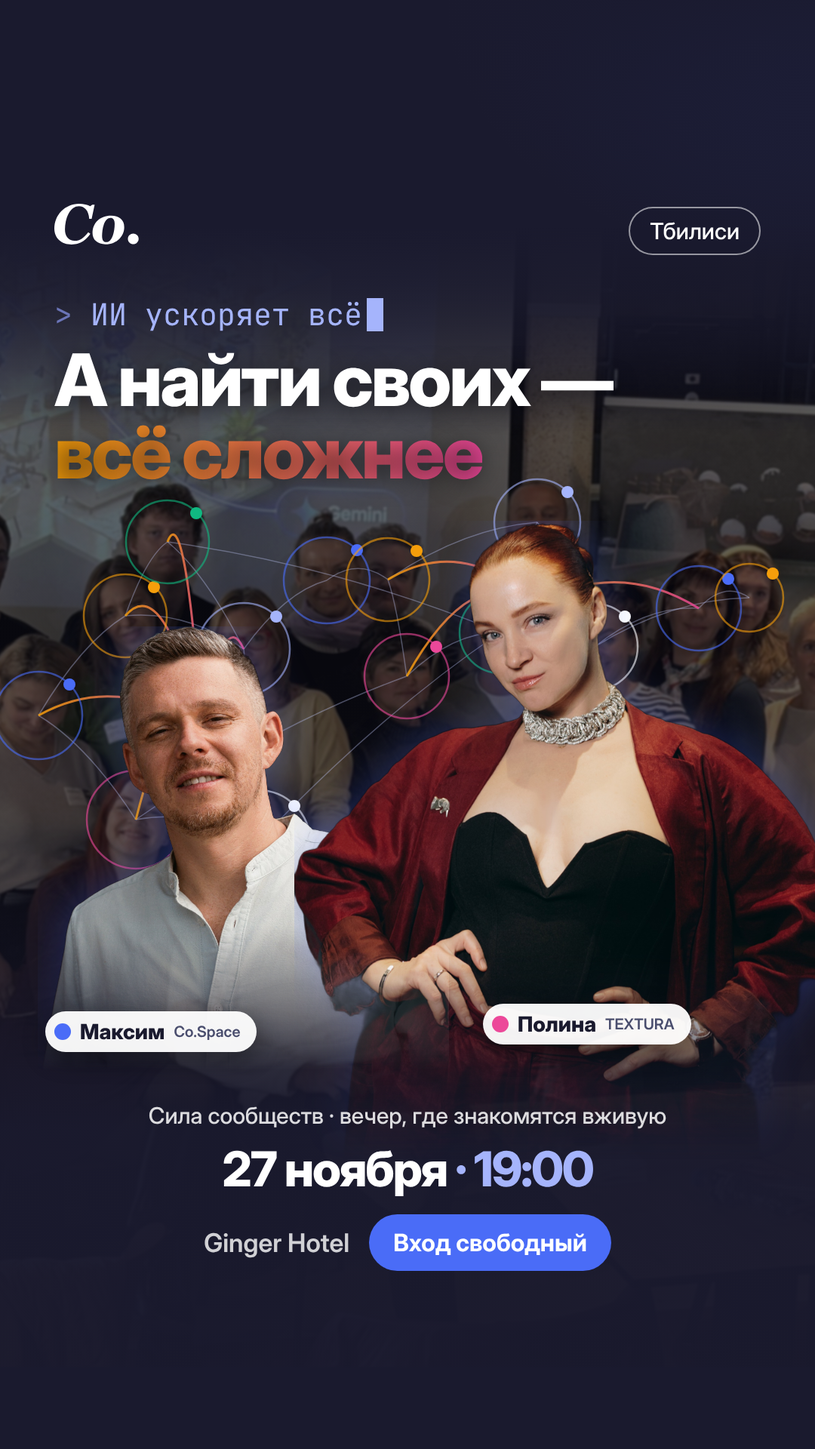
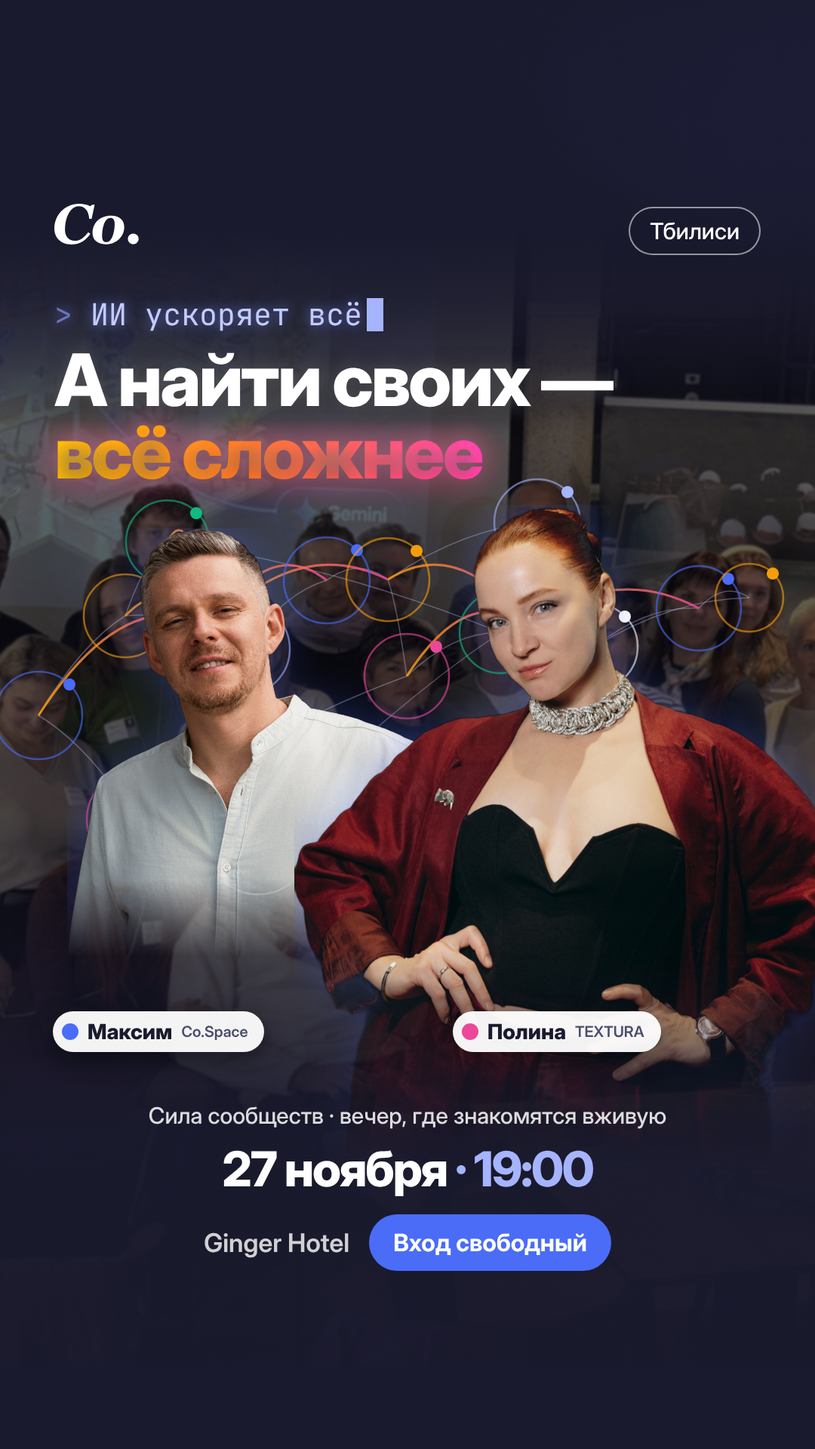
Афиша v3: одинаковый размер голов, яркий заголовок
Claude-Session: https://claude.ai/code/session_01EUhV7vaX3V2s8FuVCAhgM5

diff --git a/creatives/src/poster/poster3-9x16.html b/creatives/src/poster/poster3-9x16.html
@@ -12,11 +12,11 @@ svg.net{position:absolute;left:0;top:0}
 .person img{height:100%;display:block;filter:drop-shadow(0 0 30px rgba(74,108,247,.35))}
 .logo{position:absolute;left:72px;top:270px}.logo svg{width:112px;height:auto;display:block}
 .pill{position:absolute;right:72px;top:274px;border:2px solid rgba(255,255,255,.55);border-radius:40px;padding:12px 26px;font-size:30px;font-weight:500;background:rgba(26,26,46,.4)}
-.mono{position:absolute;left:72px;top:390px;font-family:'JetBrains Mono',monospace;font-size:40px;color:#A5B4FC}
+.mono{position:absolute;left:72px;top:390px;font-family:'JetBrains Mono',monospace;font-size:40px;color:#C3CCFF;text-shadow:0 0 16px rgba(120,140,255,.7)}
 .mono s{text-decoration:none;color:#6B75B8}
 .mono b{display:inline-block;width:22px;height:44px;background:#A5B4FC;vertical-align:-8px;margin-left:6px}
-h1{position:absolute;left:72px;right:60px;top:455px;font-size:96px;line-height:1;font-weight:800;letter-spacing:-3px;text-shadow:0 4px 30px rgba(0,0,0,.5)}
-h1 em{font-style:normal;background:linear-gradient(90deg,#F59E0B,#EC4899);-webkit-background-clip:text;color:transparent}
+h1{position:absolute;left:72px;right:60px;top:455px;font-size:96px;line-height:1;font-weight:800;letter-spacing:-3px;color:#fff;text-shadow:0 0 24px rgba(255,255,255,.25),0 4px 30px rgba(0,0,0,.7)}
+h1 em{font-style:normal;background:linear-gradient(90deg,#FFC21A 0%,#FF7A2F 45%,#FF3EA5 100%);-webkit-background-clip:text;color:transparent;filter:drop-shadow(0 0 18px rgba(255,90,140,.55)) brightness(1.15) saturate(1.3)}
 .name{position:absolute;display:flex;align-items:center;gap:12px;background:rgba(255,255,255,.95);color:#1A1A2E;border-radius:40px;
  padding:10px 22px 10px 12px;font-size:28px;font-weight:800;box-shadow:0 10px 30px rgba(0,0,0,.4)}
 .name i{width:22px;height:22px;border-radius:50%;display:block}
@@ -29,10 +29,10 @@ h1 em{font-style:normal;background:linear-gradient(90deg,#F59E0B,#EC4899);-webki
 .place{font-size:34px;color:rgba(255,255,255,.8);font-weight:600}
 .cta{background:#4A6CF7;border-radius:44px;padding:18px 32px;font-size:32px;font-weight:700}
 </style></head><body><img class="bg" src="group.src.jpg"><div class="shade"></div>
-<svg class="net" width="1080" height="1920" viewBox="0 0 1080 1920"><defs><linearGradient id="gl" x1="0" x2="1"><stop offset="0" stop-color="#F59E0B"/><stop offset="1" stop-color="#EC4899"/></linearGradient></defs><path d="M222,718 Q272,759 323,860" stroke="#C7CEFF" stroke-width="1.5" fill="none" opacity=".35"/><path d="M323,860 Q378,784 433,769" stroke="#C7CEFF" stroke-width="1.5" fill="none" opacity=".35"/><path d="M926,806 Q960,769 993,792" stroke="#C7CEFF" stroke-width="1.5" fill="none" opacity=".35"/><path d="M51,948 Q116,987 180,1086" stroke="#C7CEFF" stroke-width="1.5" fill="none" opacity=".35"/><path d="M539,896 Q601,837 663,838" stroke="#C7CEFF" stroke-width="1.5" fill="none" opacity=".35"/><path d="M663,838 Q726,818 788,857" stroke="#C7CEFF" stroke-width="1.5" fill="none" opacity=".35"/><path d="M180,1086 Q261,1071 342,1116" stroke="#C7CEFF" stroke-width="1.5" fill="none" opacity=".35"/><path d="M166,816 Q194,737 222,718" stroke="#C7CEFF" stroke-width="1.5" fill="none" opacity=".35"/><path d="M180,1086 Q360,961 539,896" stroke="#C7CEFF" stroke-width="1.5" fill="none" opacity=".35"/><path d="M514,768 Q613,700 712,692" stroke="#C7CEFF" stroke-width="1.5" fill="none" opacity=".35"/><path d="M323,860 Q332,958 342,1116" stroke="#C7CEFF" stroke-width="1.5" fill="none" opacity=".35"/><path d="M222,718 Q442,748 663,838" stroke="#C7CEFF" stroke-width="1.5" fill="none" opacity=".35"/><path d="M342,1116 Q502,947 663,838" stroke="#C7CEFF" stroke-width="1.5" fill="none" opacity=".35"/><path d="M51,948 Q108,852 166,816" stroke="#C7CEFF" stroke-width="1.5" fill="none" opacity=".35"/><path d="M663,838 Q688,735 712,692" stroke="#C7CEFF" stroke-width="1.5" fill="none" opacity=".35"/><path d="M712,692 Q750,744 788,857" stroke="#C7CEFF" stroke-width="1.5" fill="none" opacity=".35"/><path d="M788,857 Q890,794 993,792" stroke="#C7CEFF" stroke-width="1.5" fill="none" opacity=".35"/><path d="M433,769 Q474,738 514,768" stroke="#C7CEFF" stroke-width="1.5" fill="none" opacity=".35"/><path d="M166,816 Q244,808 323,860" stroke="#C7CEFF" stroke-width="1.5" fill="none" opacity=".35"/><path d="M788,857 Q857,802 926,806" stroke="#C7CEFF" stroke-width="1.5" fill="none" opacity=".35"/><path d="M514,768 Q526,802 539,896" stroke="#C7CEFF" stroke-width="1.5" fill="none" opacity=".35"/><path d="M712,800 Q688,740 663,838" stroke="url(#gl)" stroke-width="3" fill="none" opacity=".85"/><path d="M712,800 Q750,740 788,857" stroke="url(#gl)" stroke-width="3" fill="none" opacity=".85"/><path d="M712,800 Q712,632 712,692" stroke="url(#gl)" stroke-width="3" fill="none" opacity=".85"/><path d="M712,800 Q626,740 539,896" stroke="url(#gl)" stroke-width="3" fill="none" opacity=".85"/><path d="M712,800 Q613,708 514,768" stroke="url(#gl)" stroke-width="3" fill="none" opacity=".85"/><path d="M712,800 Q819,740 926,806" stroke="url(#gl)" stroke-width="3" fill="none" opacity=".85"/><path d="M268,971 Q296,800 323,860" stroke="url(#gl)" stroke-width="3" fill="none" opacity=".85"/><path d="M268,971 Q224,911 180,1086" stroke="url(#gl)" stroke-width="3" fill="none" opacity=".85"/><path d="M268,971 Q305,911 342,1116" stroke="url(#gl)" stroke-width="3" fill="none" opacity=".85"/><path d="M268,971 Q217,756 166,816" stroke="url(#gl)" stroke-width="3" fill="none" opacity=".85"/><path d="M268,971 Q160,888 51,948" stroke="url(#gl)" stroke-width="3" fill="none" opacity=".85"/><path d="M268,971 Q245,658 222,718" stroke="url(#gl)" stroke-width="3" fill="none" opacity=".85"/><circle cx="51" cy="948" r="58" fill="none" stroke="#4A6CF7" stroke-width="2.5" opacity=".6"/><circle cx="92" cy="907" r="8" fill="#4A6CF7"/><circle cx="166" cy="816" r="55" fill="none" stroke="#F59E0B" stroke-width="2.5" opacity=".6"/><circle cx="204" cy="778" r="8" fill="#F59E0B"/><circle cx="180" cy="1086" r="65" fill="none" stroke="#EC4899" stroke-width="2.5" opacity=".6"/><circle cx="226" cy="1040" r="8" fill="#EC4899"/><circle cx="222" cy="718" r="55" fill="none" stroke="#10B981" stroke-width="2.5" opacity=".6"/><circle cx="260" cy="680" r="8" fill="#10B981"/><circle cx="323" cy="860" r="61" fill="none" stroke="#A5B4FC" stroke-width="2.5" opacity=".6"/><circle cx="366" cy="817" r="8" fill="#A5B4FC"/><circle cx="342" cy="1116" r="69" fill="none" stroke="#FFFFFF" stroke-width="2.5" opacity=".6"/><circle cx="390" cy="1068" r="8" fill="#FFFFFF"/><circle cx="433" cy="769" r="57" fill="none" stroke="#4A6CF7" stroke-width="2.5" opacity=".6"/><circle cx="473" cy="729" r="8" fill="#4A6CF7"/><circle cx="514" cy="768" r="55" fill="none" stroke="#F59E0B" stroke-width="2.5" opacity=".6"/><circle cx="552" cy="730" r="8" fill="#F59E0B"/><circle cx="539" cy="896" r="56" fill="none" stroke="#EC4899" stroke-width="2.5" opacity=".6"/><circle cx="578" cy="857" r="8" fill="#EC4899"/><circle cx="663" cy="838" r="54" fill="none" stroke="#10B981" stroke-width="2.5" opacity=".6"/><circle cx="701" cy="800" r="8" fill="#10B981"/><circle cx="712" cy="692" r="57" fill="none" stroke="#A5B4FC" stroke-width="2.5" opacity=".6"/><circle cx="752" cy="652" r="8" fill="#A5B4FC"/><circle cx="788" cy="857" r="57" fill="none" stroke="#FFFFFF" stroke-width="2.5" opacity=".6"/><circle cx="828" cy="817" r="8" fill="#FFFFFF"/><circle cx="926" cy="806" r="56" fill="none" stroke="#4A6CF7" stroke-width="2.5" opacity=".6"/><circle cx="965" cy="767" r="8" fill="#4A6CF7"/><circle cx="993" cy="792" r="45" fill="none" stroke="#F59E0B" stroke-width="2.5" opacity=".6"/><circle cx="1024" cy="760" r="8" fill="#F59E0B"/></svg>
-<div class="person" style="left:50px;top:830px;height:640px"><img src="max_cut.png"></div><div class="person" style="left:390px;top:690px;height:920px"><img src="polina_cut.png"></div>
-<div class="name" style="left:640px;top:1330px"><i style="background:#EC4899"></i>Полина <small>TEXTURA</small></div>
-<div class="name" style="left:60px;top:1340px"><i style="background:#4A6CF7"></i>Максим <small>Co.Space</small></div>
+<svg class="net" width="1080" height="1920" viewBox="0 0 1080 1920"><defs><linearGradient id="gl" x1="0" x2="1"><stop offset="0" stop-color="#F59E0B"/><stop offset="1" stop-color="#EC4899"/></linearGradient></defs><path d="M222,718 Q272,759 323,860" stroke="#C7CEFF" stroke-width="1.5" fill="none" opacity=".35"/><path d="M323,860 Q378,784 433,769" stroke="#C7CEFF" stroke-width="1.5" fill="none" opacity=".35"/><path d="M926,806 Q960,769 993,792" stroke="#C7CEFF" stroke-width="1.5" fill="none" opacity=".35"/><path d="M51,948 Q116,987 180,1086" stroke="#C7CEFF" stroke-width="1.5" fill="none" opacity=".35"/><path d="M539,896 Q601,837 663,838" stroke="#C7CEFF" stroke-width="1.5" fill="none" opacity=".35"/><path d="M663,838 Q726,818 788,857" stroke="#C7CEFF" stroke-width="1.5" fill="none" opacity=".35"/><path d="M180,1086 Q261,1071 342,1116" stroke="#C7CEFF" stroke-width="1.5" fill="none" opacity=".35"/><path d="M166,816 Q194,737 222,718" stroke="#C7CEFF" stroke-width="1.5" fill="none" opacity=".35"/><path d="M180,1086 Q360,961 539,896" stroke="#C7CEFF" stroke-width="1.5" fill="none" opacity=".35"/><path d="M514,768 Q613,700 712,692" stroke="#C7CEFF" stroke-width="1.5" fill="none" opacity=".35"/><path d="M323,860 Q332,958 342,1116" stroke="#C7CEFF" stroke-width="1.5" fill="none" opacity=".35"/><path d="M222,718 Q442,748 663,838" stroke="#C7CEFF" stroke-width="1.5" fill="none" opacity=".35"/><path d="M342,1116 Q502,947 663,838" stroke="#C7CEFF" stroke-width="1.5" fill="none" opacity=".35"/><path d="M51,948 Q108,852 166,816" stroke="#C7CEFF" stroke-width="1.5" fill="none" opacity=".35"/><path d="M663,838 Q688,735 712,692" stroke="#C7CEFF" stroke-width="1.5" fill="none" opacity=".35"/><path d="M712,692 Q750,744 788,857" stroke="#C7CEFF" stroke-width="1.5" fill="none" opacity=".35"/><path d="M788,857 Q890,794 993,792" stroke="#C7CEFF" stroke-width="1.5" fill="none" opacity=".35"/><path d="M433,769 Q474,738 514,768" stroke="#C7CEFF" stroke-width="1.5" fill="none" opacity=".35"/><path d="M166,816 Q244,808 323,860" stroke="#C7CEFF" stroke-width="1.5" fill="none" opacity=".35"/><path d="M788,857 Q857,802 926,806" stroke="#C7CEFF" stroke-width="1.5" fill="none" opacity=".35"/><path d="M514,768 Q526,802 539,896" stroke="#C7CEFF" stroke-width="1.5" fill="none" opacity=".35"/><path d="M700,830 Q682,770 663,838" stroke="url(#gl)" stroke-width="3" fill="none" opacity=".85"/><path d="M700,830 Q744,770 788,857" stroke="url(#gl)" stroke-width="3" fill="none" opacity=".85"/><path d="M700,830 Q706,632 712,692" stroke="url(#gl)" stroke-width="3" fill="none" opacity=".85"/><path d="M700,830 Q620,770 539,896" stroke="url(#gl)" stroke-width="3" fill="none" opacity=".85"/><path d="M700,830 Q607,708 514,768" stroke="url(#gl)" stroke-width="3" fill="none" opacity=".85"/><path d="M700,830 Q813,746 926,806" stroke="url(#gl)" stroke-width="3" fill="none" opacity=".85"/><path d="M280,830 Q302,770 323,860" stroke="url(#gl)" stroke-width="3" fill="none" opacity=".85"/><path d="M280,830 Q223,756 166,816" stroke="url(#gl)" stroke-width="3" fill="none" opacity=".85"/><path d="M280,830 Q251,658 222,718" stroke="url(#gl)" stroke-width="3" fill="none" opacity=".85"/><path d="M280,830 Q356,709 433,769" stroke="url(#gl)" stroke-width="3" fill="none" opacity=".85"/><path d="M280,830 Q397,708 514,768" stroke="url(#gl)" stroke-width="3" fill="none" opacity=".85"/><path d="M280,830 Q166,770 51,948" stroke="url(#gl)" stroke-width="3" fill="none" opacity=".85"/><circle cx="51" cy="948" r="58" fill="none" stroke="#4A6CF7" stroke-width="2.5" opacity=".6"/><circle cx="92" cy="907" r="8" fill="#4A6CF7"/><circle cx="166" cy="816" r="55" fill="none" stroke="#F59E0B" stroke-width="2.5" opacity=".6"/><circle cx="204" cy="778" r="8" fill="#F59E0B"/><circle cx="180" cy="1086" r="65" fill="none" stroke="#EC4899" stroke-width="2.5" opacity=".6"/><circle cx="226" cy="1040" r="8" fill="#EC4899"/><circle cx="222" cy="718" r="55" fill="none" stroke="#10B981" stroke-width="2.5" opacity=".6"/><circle cx="260" cy="680" r="8" fill="#10B981"/><circle cx="323" cy="860" r="61" fill="none" stroke="#A5B4FC" stroke-width="2.5" opacity=".6"/><circle cx="366" cy="817" r="8" fill="#A5B4FC"/><circle cx="342" cy="1116" r="69" fill="none" stroke="#FFFFFF" stroke-width="2.5" opacity=".6"/><circle cx="390" cy="1068" r="8" fill="#FFFFFF"/><circle cx="433" cy="769" r="57" fill="none" stroke="#4A6CF7" stroke-width="2.5" opacity=".6"/><circle cx="473" cy="729" r="8" fill="#4A6CF7"/><circle cx="514" cy="768" r="55" fill="none" stroke="#F59E0B" stroke-width="2.5" opacity=".6"/><circle cx="552" cy="730" r="8" fill="#F59E0B"/><circle cx="539" cy="896" r="56" fill="none" stroke="#EC4899" stroke-width="2.5" opacity=".6"/><circle cx="578" cy="857" r="8" fill="#EC4899"/><circle cx="663" cy="838" r="54" fill="none" stroke="#10B981" stroke-width="2.5" opacity=".6"/><circle cx="701" cy="800" r="8" fill="#10B981"/><circle cx="712" cy="692" r="57" fill="none" stroke="#A5B4FC" stroke-width="2.5" opacity=".6"/><circle cx="752" cy="652" r="8" fill="#A5B4FC"/><circle cx="788" cy="857" r="57" fill="none" stroke="#FFFFFF" stroke-width="2.5" opacity=".6"/><circle cx="828" cy="817" r="8" fill="#FFFFFF"/><circle cx="926" cy="806" r="56" fill="none" stroke="#4A6CF7" stroke-width="2.5" opacity=".6"/><circle cx="965" cy="767" r="8" fill="#4A6CF7"/><circle cx="993" cy="792" r="45" fill="none" stroke="#F59E0B" stroke-width="2.5" opacity=".6"/><circle cx="1024" cy="760" r="8" fill="#F59E0B"/></svg>
+<div class="person" style="left:89px;top:700px;height:567px;-webkit-mask-image:linear-gradient(180deg,#000 82%,transparent 100%)"><img src="max_cut.png"></div><div class="person" style="left:390px;top:669px;height:946px;"><img src="polina_cut.png"></div>
+<div class="name" style="left:600px;top:1340px"><i style="background:#EC4899"></i>Полина <small>TEXTURA</small></div>
+<div class="name" style="left:70px;top:1340px"><i style="background:#4A6CF7"></i>Максим <small>Co.Space</small></div>
 <div class="logo"><svg width="77" height="38" viewBox="0 0 77 38" fill="none" xmlns="http://www.w3.org/2000/svg">
 <path d="M15.6912 37.0447C13.4308 37.0447 11.3353 36.7143 9.40484 36.0537C7.47438 35.3761 5.80789 34.4098 4.40543 33.1545C3.01945 31.8988 1.93872 30.371 1.16323 28.5701C0.387743 26.7532 0 24.7047 0 22.425C0 19.402 0.552742 16.5524 1.65822 13.8763C2.78021 11.2001 4.35593 8.81309 6.38539 6.71513C8.33235 4.69976 10.7083 3.08086 13.5133 1.85843C16.3347 0.619476 19.3294 0 22.4974 0C24.4114 0 26.35 0.231271 28.3134 0.693814C30.2771 1.15636 31.7455 1.69323 32.7189 2.30445L34.5753 0.941605H36.7283L33.9811 13.7772H31.8034C31.4733 10.0273 30.4751 7.17767 28.8084 5.22837C27.1585 3.26258 25.0301 2.27967 22.4231 2.27967C20.5092 2.27967 18.7437 2.8496 17.1267 3.98942C15.5098 5.12927 14.0743 6.88031 12.8203 9.24259C11.7973 11.1919 11.0136 13.455 10.4691 16.0321C9.9411 18.5925 9.67709 20.9961 9.67709 23.2428C9.67709 26.5468 10.4773 29.1154 12.0778 30.9491C13.6783 32.7828 15.8232 33.6994 18.5127 33.6994C20.8722 33.6994 23.0584 33.0387 25.0713 31.7171C27.0844 30.3957 29.023 28.4875 30.8875 25.9932L32.7933 27.2816C31.9848 28.5372 31.0196 29.776 29.8976 30.9985C28.7755 32.2044 27.4968 33.2536 26.0613 34.1455C24.5598 35.0871 23.0089 35.8056 21.4084 36.3014C19.8244 36.7969 17.9187 37.0447 15.6912 37.0447Z" fill="white"/>
 <path d="M63.6817 21.2605C63.6817 23.342 63.2858 25.3326 62.4936 27.2323C61.7017 29.132 60.5797 30.784 59.1278 32.188C57.5603 33.6914 55.7205 34.856 53.6085 35.6819C51.5131 36.4914 49.1536 36.8962 46.5303 36.8962C43.0159 36.8962 40.178 35.9628 38.0163 34.0962C35.8548 32.213 34.7741 29.6523 34.7741 26.4146C34.7741 24.2175 35.1783 22.1774 35.9869 20.2942C36.8119 18.411 37.9587 16.7673 39.4271 15.3631C40.8792 13.992 42.6611 12.91 44.7731 12.1171C46.8851 11.3076 49.1701 10.9029 51.6285 10.9029C55.3575 10.9029 58.2946 11.8197 60.4395 13.6534C62.6009 15.4705 63.6817 18.0062 63.6817 21.2605ZM54.9699 18.4605C54.9699 16.5277 54.6398 15.1071 53.9799 14.1985C53.3363 13.29 52.396 12.8357 51.1585 12.8357C49.8879 12.8357 48.7246 13.3478 47.6686 14.372C46.6129 15.3797 45.7547 16.8664 45.0947 18.8322C44.5172 20.4676 44.1048 22.2434 43.8573 24.1597C43.6098 26.0594 43.4862 27.7609 43.4862 29.2641C43.4862 31.263 43.816 32.7167 44.4761 33.6254C45.136 34.5172 46.0929 34.9633 47.3469 34.9633C48.6999 34.9633 49.8713 34.4099 50.8613 33.3032C51.8513 32.1964 52.6351 30.8335 53.2127 29.2146C53.7902 27.6287 54.2274 25.8777 54.5243 23.9615C54.8213 22.0287 54.9699 20.195 54.9699 18.4605Z" fill="white"/>

diff --git a/creatives/src/poster/poster3-4x5.html b/creatives/src/poster/poster3-4x5.html
@@ -12,11 +12,11 @@ svg.net{position:absolute;left:0;top:0}
 .person img{height:100%;display:block;filter:drop-shadow(0 0 30px rgba(74,108,247,.35))}
 .logo{position:absolute;left:72px;top:60px}.logo svg{width:112px;height:auto;display:block}
 .pill{position:absolute;right:72px;top:64px;border:2px solid rgba(255,255,255,.55);border-radius:40px;padding:12px 26px;font-size:30px;font-weight:500;background:rgba(26,26,46,.4)}
-.mono{position:absolute;left:72px;top:170px;font-family:'JetBrains Mono',monospace;font-size:40px;color:#A5B4FC}
+.mono{position:absolute;left:72px;top:170px;font-family:'JetBrains Mono',monospace;font-size:40px;color:#C3CCFF;text-shadow:0 0 16px rgba(120,140,255,.7)}
 .mono s{text-decoration:none;color:#6B75B8}
 .mono b{display:inline-block;width:22px;height:44px;background:#A5B4FC;vertical-align:-8px;margin-left:6px}
-h1{position:absolute;left:72px;right:60px;top:228px;font-size:94px;line-height:1;font-weight:800;letter-spacing:-3px;text-shadow:0 4px 30px rgba(0,0,0,.5)}
-h1 em{font-style:normal;background:linear-gradient(90deg,#F59E0B,#EC4899);-webkit-background-clip:text;color:transparent}
+h1{position:absolute;left:72px;right:60px;top:228px;font-size:94px;line-height:1;font-weight:800;letter-spacing:-3px;color:#fff;text-shadow:0 0 24px rgba(255,255,255,.25),0 4px 30px rgba(0,0,0,.7)}
+h1 em{font-style:normal;background:linear-gradient(90deg,#FFC21A 0%,#FF7A2F 45%,#FF3EA5 100%);-webkit-background-clip:text;color:transparent;filter:drop-shadow(0 0 18px rgba(255,90,140,.55)) brightness(1.15) saturate(1.3)}
 .name{position:absolute;display:flex;align-items:center;gap:12px;background:rgba(255,255,255,.95);color:#1A1A2E;border-radius:40px;
  padding:10px 22px 10px 12px;font-size:28px;font-weight:800;box-shadow:0 10px 30px rgba(0,0,0,.4)}
 .name i{width:22px;height:22px;border-radius:50%;display:block}
@@ -29,10 +29,10 @@ h1 em{font-style:normal;background:linear-gradient(90deg,#F59E0B,#EC4899);-webki
 .place{font-size:34px;color:rgba(255,255,255,.8);font-weight:600}
 .cta{background:#4A6CF7;border-radius:44px;padding:18px 32px;font-size:32px;font-weight:700}
 </style></head><body><img class="bg" src="group.src.jpg"><div class="shade"></div>
-<svg class="net" width="1080" height="1350" viewBox="0 0 1080 1350"><defs><linearGradient id="gl" x1="0" x2="1"><stop offset="0" stop-color="#F59E0B"/><stop offset="1" stop-color="#EC4899"/></linearGradient></defs><path d="M227,477 Q275,515 323,612" stroke="#C7CEFF" stroke-width="1.5" fill="none" opacity=".35"/><path d="M323,612 Q376,539 428,526" stroke="#C7CEFF" stroke-width="1.5" fill="none" opacity=".35"/><path d="M896,561 Q928,524 960,547" stroke="#C7CEFF" stroke-width="1.5" fill="none" opacity=".35"/><path d="M65,696 Q126,731 188,827" stroke="#C7CEFF" stroke-width="1.5" fill="none" opacity=".35"/><path d="M529,646 Q587,589 646,591" stroke="#C7CEFF" stroke-width="1.5" fill="none" opacity=".35"/><path d="M646,591 Q706,570 765,609" stroke="#C7CEFF" stroke-width="1.5" fill="none" opacity=".35"/><path d="M188,827 Q264,811 341,855" stroke="#C7CEFF" stroke-width="1.5" fill="none" opacity=".35"/><path d="M174,570 Q201,494 227,477" stroke="#C7CEFF" stroke-width="1.5" fill="none" opacity=".35"/><path d="M188,827 Q358,706 529,646" stroke="#C7CEFF" stroke-width="1.5" fill="none" opacity=".35"/><path d="M505,525 Q599,458 693,452" stroke="#C7CEFF" stroke-width="1.5" fill="none" opacity=".35"/><path d="M323,612 Q332,704 341,855" stroke="#C7CEFF" stroke-width="1.5" fill="none" opacity=".35"/><path d="M227,477 Q437,504 646,591" stroke="#C7CEFF" stroke-width="1.5" fill="none" opacity=".35"/><path d="M341,855 Q494,693 646,591" stroke="#C7CEFF" stroke-width="1.5" fill="none" opacity=".35"/><path d="M65,696 Q120,603 174,570" stroke="#C7CEFF" stroke-width="1.5" fill="none" opacity=".35"/><path d="M646,591 Q670,492 693,452" stroke="#C7CEFF" stroke-width="1.5" fill="none" opacity=".35"/><path d="M693,452 Q729,501 765,609" stroke="#C7CEFF" stroke-width="1.5" fill="none" opacity=".35"/><path d="M765,609 Q862,548 960,547" stroke="#C7CEFF" stroke-width="1.5" fill="none" opacity=".35"/><path d="M428,526 Q466,495 505,525" stroke="#C7CEFF" stroke-width="1.5" fill="none" opacity=".35"/><path d="M174,570 Q249,561 323,612" stroke="#C7CEFF" stroke-width="1.5" fill="none" opacity=".35"/><path d="M765,609 Q831,555 896,561" stroke="#C7CEFF" stroke-width="1.5" fill="none" opacity=".35"/><path d="M505,525 Q517,555 529,646" stroke="#C7CEFF" stroke-width="1.5" fill="none" opacity=".35"/><path d="M708,496 Q700,392 693,452" stroke="url(#gl)" stroke-width="3" fill="none" opacity=".85"/><path d="M708,496 Q677,436 646,591" stroke="url(#gl)" stroke-width="3" fill="none" opacity=".85"/><path d="M708,496 Q737,436 765,609" stroke="url(#gl)" stroke-width="3" fill="none" opacity=".85"/><path d="M708,496 Q802,436 896,561" stroke="url(#gl)" stroke-width="3" fill="none" opacity=".85"/><path d="M708,496 Q606,436 505,525" stroke="url(#gl)" stroke-width="3" fill="none" opacity=".85"/><path d="M708,496 Q618,436 529,646" stroke="url(#gl)" stroke-width="3" fill="none" opacity=".85"/><path d="M264,652 Q294,552 323,612" stroke="url(#gl)" stroke-width="3" fill="none" opacity=".85"/><path d="M264,652 Q219,510 174,570" stroke="url(#gl)" stroke-width="3" fill="none" opacity=".85"/><path d="M264,652 Q246,417 227,477" stroke="url(#gl)" stroke-width="3" fill="none" opacity=".85"/><path d="M264,652 Q226,592 188,827" stroke="url(#gl)" stroke-width="3" fill="none" opacity=".85"/><path d="M264,652 Q164,592 65,696" stroke="url(#gl)" stroke-width="3" fill="none" opacity=".85"/><path d="M264,652 Q346,466 428,526" stroke="url(#gl)" stroke-width="3" fill="none" opacity=".85"/><circle cx="65" cy="696" r="55" fill="none" stroke="#4A6CF7" stroke-width="2.5" opacity=".6"/><circle cx="103" cy="657" r="8" fill="#4A6CF7"/><circle cx="174" cy="570" r="52" fill="none" stroke="#F59E0B" stroke-width="2.5" opacity=".6"/><circle cx="211" cy="534" r="8" fill="#F59E0B"/><circle cx="188" cy="827" r="62" fill="none" stroke="#EC4899" stroke-width="2.5" opacity=".6"/><circle cx="231" cy="783" r="8" fill="#EC4899"/><circle cx="227" cy="477" r="52" fill="none" stroke="#10B981" stroke-width="2.5" opacity=".6"/><circle cx="264" cy="441" r="8" fill="#10B981"/><circle cx="323" cy="612" r="58" fill="none" stroke="#A5B4FC" stroke-width="2.5" opacity=".6"/><circle cx="364" cy="571" r="8" fill="#A5B4FC"/><circle cx="341" cy="855" r="66" fill="none" stroke="#FFFFFF" stroke-width="2.5" opacity=".6"/><circle cx="388" cy="809" r="8" fill="#FFFFFF"/><circle cx="428" cy="526" r="54" fill="none" stroke="#4A6CF7" stroke-width="2.5" opacity=".6"/><circle cx="466" cy="488" r="8" fill="#4A6CF7"/><circle cx="505" cy="525" r="52" fill="none" stroke="#F59E0B" stroke-width="2.5" opacity=".6"/><circle cx="541" cy="488" r="8" fill="#F59E0B"/><circle cx="529" cy="646" r="53" fill="none" stroke="#EC4899" stroke-width="2.5" opacity=".6"/><circle cx="566" cy="609" r="8" fill="#EC4899"/><circle cx="646" cy="591" r="51" fill="none" stroke="#10B981" stroke-width="2.5" opacity=".6"/><circle cx="682" cy="555" r="8" fill="#10B981"/><circle cx="693" cy="452" r="54" fill="none" stroke="#A5B4FC" stroke-width="2.5" opacity=".6"/><circle cx="731" cy="415" r="8" fill="#A5B4FC"/><circle cx="765" cy="609" r="54" fill="none" stroke="#FFFFFF" stroke-width="2.5" opacity=".6"/><circle cx="803" cy="571" r="8" fill="#FFFFFF"/><circle cx="896" cy="561" r="54" fill="none" stroke="#4A6CF7" stroke-width="2.5" opacity=".6"/><circle cx="934" cy="523" r="8" fill="#4A6CF7"/><circle cx="960" cy="547" r="43" fill="none" stroke="#F59E0B" stroke-width="2.5" opacity=".6"/><circle cx="990" cy="517" r="8" fill="#F59E0B"/></svg>
-<div class="person" style="left:60px;top:520px;height:600px"><img src="max_cut.png"></div><div class="person" style="left:400px;top:390px;height:880px"><img src="polina_cut.png"></div>
-<div class="name" style="left:640px;top:1000px"><i style="background:#EC4899"></i>Полина <small>TEXTURA</small></div>
-<div class="name" style="left:70px;top:1010px"><i style="background:#4A6CF7"></i>Максим <small>Co.Space</small></div>
+<svg class="net" width="1080" height="1350" viewBox="0 0 1080 1350"><defs><linearGradient id="gl" x1="0" x2="1"><stop offset="0" stop-color="#F59E0B"/><stop offset="1" stop-color="#EC4899"/></linearGradient></defs><path d="M227,477 Q275,515 323,612" stroke="#C7CEFF" stroke-width="1.5" fill="none" opacity=".35"/><path d="M323,612 Q376,539 428,526" stroke="#C7CEFF" stroke-width="1.5" fill="none" opacity=".35"/><path d="M896,561 Q928,524 960,547" stroke="#C7CEFF" stroke-width="1.5" fill="none" opacity=".35"/><path d="M65,696 Q126,731 188,827" stroke="#C7CEFF" stroke-width="1.5" fill="none" opacity=".35"/><path d="M529,646 Q587,589 646,591" stroke="#C7CEFF" stroke-width="1.5" fill="none" opacity=".35"/><path d="M646,591 Q706,570 765,609" stroke="#C7CEFF" stroke-width="1.5" fill="none" opacity=".35"/><path d="M188,827 Q264,811 341,855" stroke="#C7CEFF" stroke-width="1.5" fill="none" opacity=".35"/><path d="M174,570 Q201,494 227,477" stroke="#C7CEFF" stroke-width="1.5" fill="none" opacity=".35"/><path d="M188,827 Q358,706 529,646" stroke="#C7CEFF" stroke-width="1.5" fill="none" opacity=".35"/><path d="M505,525 Q599,458 693,452" stroke="#C7CEFF" stroke-width="1.5" fill="none" opacity=".35"/><path d="M323,612 Q332,704 341,855" stroke="#C7CEFF" stroke-width="1.5" fill="none" opacity=".35"/><path d="M227,477 Q437,504 646,591" stroke="#C7CEFF" stroke-width="1.5" fill="none" opacity=".35"/><path d="M341,855 Q494,693 646,591" stroke="#C7CEFF" stroke-width="1.5" fill="none" opacity=".35"/><path d="M65,696 Q120,603 174,570" stroke="#C7CEFF" stroke-width="1.5" fill="none" opacity=".35"/><path d="M646,591 Q670,492 693,452" stroke="#C7CEFF" stroke-width="1.5" fill="none" opacity=".35"/><path d="M693,452 Q729,501 765,609" stroke="#C7CEFF" stroke-width="1.5" fill="none" opacity=".35"/><path d="M765,609 Q862,548 960,547" stroke="#C7CEFF" stroke-width="1.5" fill="none" opacity=".35"/><path d="M428,526 Q466,495 505,525" stroke="#C7CEFF" stroke-width="1.5" fill="none" opacity=".35"/><path d="M174,570 Q249,561 323,612" stroke="#C7CEFF" stroke-width="1.5" fill="none" opacity=".35"/><path d="M765,609 Q831,555 896,561" stroke="#C7CEFF" stroke-width="1.5" fill="none" opacity=".35"/><path d="M505,525 Q517,555 529,646" stroke="#C7CEFF" stroke-width="1.5" fill="none" opacity=".35"/><path d="M690,580 Q668,520 646,591" stroke="url(#gl)" stroke-width="3" fill="none" opacity=".85"/><path d="M690,580 Q728,520 765,609" stroke="url(#gl)" stroke-width="3" fill="none" opacity=".85"/><path d="M690,580 Q691,392 693,452" stroke="url(#gl)" stroke-width="3" fill="none" opacity=".85"/><path d="M690,580 Q609,520 529,646" stroke="url(#gl)" stroke-width="3" fill="none" opacity=".85"/><path d="M690,580 Q597,465 505,525" stroke="url(#gl)" stroke-width="3" fill="none" opacity=".85"/><path d="M690,580 Q793,501 896,561" stroke="url(#gl)" stroke-width="3" fill="none" opacity=".85"/><path d="M290,580 Q307,520 323,612" stroke="url(#gl)" stroke-width="3" fill="none" opacity=".85"/><path d="M290,580 Q232,510 174,570" stroke="url(#gl)" stroke-width="3" fill="none" opacity=".85"/><path d="M290,580 Q259,417 227,477" stroke="url(#gl)" stroke-width="3" fill="none" opacity=".85"/><path d="M290,580 Q359,466 428,526" stroke="url(#gl)" stroke-width="3" fill="none" opacity=".85"/><path d="M290,580 Q397,465 505,525" stroke="url(#gl)" stroke-width="3" fill="none" opacity=".85"/><path d="M290,580 Q409,520 529,646" stroke="url(#gl)" stroke-width="3" fill="none" opacity=".85"/><circle cx="65" cy="696" r="55" fill="none" stroke="#4A6CF7" stroke-width="2.5" opacity=".6"/><circle cx="103" cy="657" r="8" fill="#4A6CF7"/><circle cx="174" cy="570" r="52" fill="none" stroke="#F59E0B" stroke-width="2.5" opacity=".6"/><circle cx="211" cy="534" r="8" fill="#F59E0B"/><circle cx="188" cy="827" r="62" fill="none" stroke="#EC4899" stroke-width="2.5" opacity=".6"/><circle cx="231" cy="783" r="8" fill="#EC4899"/><circle cx="227" cy="477" r="52" fill="none" stroke="#10B981" stroke-width="2.5" opacity=".6"/><circle cx="264" cy="441" r="8" fill="#10B981"/><circle cx="323" cy="612" r="58" fill="none" stroke="#A5B4FC" stroke-width="2.5" opacity=".6"/><circle cx="364" cy="571" r="8" fill="#A5B4FC"/><circle cx="341" cy="855" r="66" fill="none" stroke="#FFFFFF" stroke-width="2.5" opacity=".6"/><circle cx="388" cy="809" r="8" fill="#FFFFFF"/><circle cx="428" cy="526" r="54" fill="none" stroke="#4A6CF7" stroke-width="2.5" opacity=".6"/><circle cx="466" cy="488" r="8" fill="#4A6CF7"/><circle cx="505" cy="525" r="52" fill="none" stroke="#F59E0B" stroke-width="2.5" opacity=".6"/><circle cx="541" cy="488" r="8" fill="#F59E0B"/><circle cx="529" cy="646" r="53" fill="none" stroke="#EC4899" stroke-width="2.5" opacity=".6"/><circle cx="566" cy="609" r="8" fill="#EC4899"/><circle cx="646" cy="591" r="51" fill="none" stroke="#10B981" stroke-width="2.5" opacity=".6"/><circle cx="682" cy="555" r="8" fill="#10B981"/><circle cx="693" cy="452" r="54" fill="none" stroke="#A5B4FC" stroke-width="2.5" opacity=".6"/><circle cx="731" cy="415" r="8" fill="#A5B4FC"/><circle cx="765" cy="609" r="54" fill="none" stroke="#FFFFFF" stroke-width="2.5" opacity=".6"/><circle cx="803" cy="571" r="8" fill="#FFFFFF"/><circle cx="896" cy="561" r="54" fill="none" stroke="#4A6CF7" stroke-width="2.5" opacity=".6"/><circle cx="934" cy="523" r="8" fill="#4A6CF7"/><circle cx="960" cy="547" r="43" fill="none" stroke="#F59E0B" stroke-width="2.5" opacity=".6"/><circle cx="990" cy="517" r="8" fill="#F59E0B"/></svg>
+<div class="person" style="left:115px;top:461px;height:521px;-webkit-mask-image:linear-gradient(180deg,#000 82%,transparent 100%)"><img src="max_cut.png"></div><div class="person" style="left:405px;top:432px;height:870px;"><img src="polina_cut.png"></div>
+<div class="name" style="left:600px;top:1010px"><i style="background:#EC4899"></i>Полина <small>TEXTURA</small></div>
+<div class="name" style="left:90px;top:1010px"><i style="background:#4A6CF7"></i>Максим <small>Co.Space</small></div>
 <div class="logo"><svg width="77" height="38" viewBox="0 0 77 38" fill="none" xmlns="http://www.w3.org/2000/svg">
 <path d="M15.6912 37.0447C13.4308 37.0447 11.3353 36.7143 9.40484 36.0537C7.47438 35.3761 5.80789 34.4098 4.40543 33.1545C3.01945 31.8988 1.93872 30.371 1.16323 28.5701C0.387743 26.7532 0 24.7047 0 22.425C0 19.402 0.552742 16.5524 1.65822 13.8763C2.78021 11.2001 4.35593 8.81309 6.38539 6.71513C8.33235 4.69976 10.7083 3.08086 13.5133 1.85843C16.3347 0.619476 19.3294 0 22.4974 0C24.4114 0 26.35 0.231271 28.3134 0.693814C30.2771 1.15636 31.7455 1.69323 32.7189 2.30445L34.5753 0.941605H36.7283L33.9811 13.7772H31.8034C31.4733 10.0273 30.4751 7.17767 28.8084 5.22837C27.1585 3.26258 25.0301 2.27967 22.4231 2.27967C20.5092 2.27967 18.7437 2.8496 17.1267 3.98942C15.5098 5.12927 14.0743 6.88031 12.8203 9.24259C11.7973 11.1919 11.0136 13.455 10.4691 16.0321C9.9411 18.5925 9.67709 20.9961 9.67709 23.2428C9.67709 26.5468 10.4773 29.1154 12.0778 30.9491C13.6783 32.7828 15.8232 33.6994 18.5127 33.6994C20.8722 33.6994 23.0584 33.0387 25.0713 31.7171C27.0844 30.3957 29.023 28.4875 30.8875 25.9932L32.7933 27.2816C31.9848 28.5372 31.0196 29.776 29.8976 30.9985C28.7755 32.2044 27.4968 33.2536 26.0613 34.1455C24.5598 35.0871 23.0089 35.8056 21.4084 36.3014C19.8244 36.7969 17.9187 37.0447 15.6912 37.0447Z" fill="white"/>
 <path d="M63.6817 21.2605C63.6817 23.342 63.2858 25.3326 62.4936 27.2323C61.7017 29.132 60.5797 30.784 59.1278 32.188C57.5603 33.6914 55.7205 34.856 53.6085 35.6819C51.5131 36.4914 49.1536 36.8962 46.5303 36.8962C43.0159 36.8962 40.178 35.9628 38.0163 34.0962C35.8548 32.213 34.7741 29.6523 34.7741 26.4146C34.7741 24.2175 35.1783 22.1774 35.9869 20.2942C36.8119 18.411 37.9587 16.7673 39.4271 15.3631C40.8792 13.992 42.6611 12.91 44.7731 12.1171C46.8851 11.3076 49.1701 10.9029 51.6285 10.9029C55.3575 10.9029 58.2946 11.8197 60.4395 13.6534C62.6009 15.4705 63.6817 18.0062 63.6817 21.2605ZM54.9699 18.4605C54.9699 16.5277 54.6398 15.1071 53.9799 14.1985C53.3363 13.29 52.396 12.8357 51.1585 12.8357C49.8879 12.8357 48.7246 13.3478 47.6686 14.372C46.6129 15.3797 45.7547 16.8664 45.0947 18.8322C44.5172 20.4676 44.1048 22.2434 43.8573 24.1597C43.6098 26.0594 43.4862 27.7609 43.4862 29.2641C43.4862 31.263 43.816 32.7167 44.4761 33.6254C45.136 34.5172 46.0929 34.9633 47.3469 34.9633C48.6999 34.9633 49.8713 34.4099 50.8613 33.3032C51.8513 32.1964 52.6351 30.8335 53.2127 29.2146C53.7902 27.6287 54.2274 25.8777 54.5243 23.9615C54.8213 22.0287 54.9699 20.195 54.9699 18.4605Z" fill="white"/>

diff --git a/creatives/src/poster/build_poster3.py b/creatives/src/poster/build_poster3.py
@@ -12,14 +12,14 @@ COLORS = ["#4A6CF7", "#F59E0B", "#EC4899", "#10B981", "#A5B4FC", "#FFFFFF"]
 FMT = {
     # person: left, top, h (высота вырезки)
     "4x5": dict(W=1080, H=1350, s=0.95, ox=430, oy=-80, top=60, mono=170, h1=228, h1s=94,
-                pol=dict(left=400, top=390, h=880), mx=dict(left=60, top=520, h=600), info=1125,
-                polname=(640, 1000), maxname=(70, 1010)),
+                pol=dict(left=405,top=432,h=870), mx=dict(left=115,top=461,h=521), info=1125,
+                polname=(600, 1010), maxname=(90, 1010)),
     "9x16": dict(W=1080, H=1920, s=1.0, ox=470, oy=-300, top=270, mono=390, h1=455, h1s=96,
-                 pol=dict(left=390, top=690, h=920), mx=dict(left=50, top=830, h=640), info=1460,
-                 polname=(640, 1330), maxname=(60, 1340)),
+                 pol=dict(left=390,top=669,h=946), mx=dict(left=89,top=700,h=567), info=1460,
+                 polname=(600, 1340), maxname=(70, 1340)),
 }
-PCUT = (933, 1146, .43, .12)   # w, h, центр головы x/y в долях
-MCUT = (902, 1059, .40, .22)
+PCUT = (933, 1146, .403, .170)   # w, h, центр головы x/y в долях
+MCUT = (902, 1059, .395, .229)
 
 CSS = """
 *{margin:0;padding:0;box-sizing:border-box}
@@ -35,11 +35,11 @@ svg.net{position:absolute;left:0;top:0}
 .person img{height:100%%;display:block;filter:drop-shadow(0 0 30px rgba(74,108,247,.35))}
 .logo{position:absolute;left:72px;top:%(top)dpx}.logo svg{width:112px;height:auto;display:block}
 .pill{position:absolute;right:72px;top:%(pt)dpx;border:2px solid rgba(255,255,255,.55);border-radius:40px;padding:12px 26px;font-size:30px;font-weight:500;background:rgba(26,26,46,.4)}
-.mono{position:absolute;left:72px;top:%(mono)dpx;font-family:'JetBrains Mono',monospace;font-size:40px;color:#A5B4FC}
+.mono{position:absolute;left:72px;top:%(mono)dpx;font-family:'JetBrains Mono',monospace;font-size:40px;color:#C3CCFF;text-shadow:0 0 16px rgba(120,140,255,.7)}
 .mono s{text-decoration:none;color:#6B75B8}
 .mono b{display:inline-block;width:22px;height:44px;background:#A5B4FC;vertical-align:-8px;margin-left:6px}
-h1{position:absolute;left:72px;right:60px;top:%(h1)dpx;font-size:%(h1s)dpx;line-height:1;font-weight:800;letter-spacing:-3px;text-shadow:0 4px 30px rgba(0,0,0,.5)}
-h1 em{font-style:normal;background:linear-gradient(90deg,#F59E0B,#EC4899);-webkit-background-clip:text;color:transparent}
+h1{position:absolute;left:72px;right:60px;top:%(h1)dpx;font-size:%(h1s)dpx;line-height:1;font-weight:800;letter-spacing:-3px;color:#fff;text-shadow:0 0 24px rgba(255,255,255,.25),0 4px 30px rgba(0,0,0,.7)}
+h1 em{font-style:normal;background:linear-gradient(90deg,#FFC21A 0%%,#FF7A2F 45%%,#FF3EA5 100%%);-webkit-background-clip:text;color:transparent;filter:drop-shadow(0 0 18px rgba(255,90,140,.55)) brightness(1.15) saturate(1.3)}
 .name{position:absolute;display:flex;align-items:center;gap:12px;background:rgba(255,255,255,.95);color:#1A1A2E;border-radius:40px;
  padding:10px 22px 10px 12px;font-size:28px;font-weight:800;box-shadow:0 10px 30px rgba(0,0,0,.4)}
 .name i{width:22px;height:22px;border-radius:50%%;display:block}
@@ -99,7 +99,8 @@ def net_svg(L):
 
 
 def person(img, pos):
-    return f'<div class="person" style="left:{pos["left"]}px;top:{pos["top"]}px;height:{pos["h"]}px"><img src="{img}"></div>'
+    m = "-webkit-mask-image:linear-gradient(180deg,#000 82%,transparent 100%)" if "max" in img else ""
+    return f'<div class="person" style="left:{pos["left"]}px;top:{pos["top"]}px;height:{pos["h"]}px;{m}"><img src="{img}"></div>'
 
 
 for fmt, L in FMT.items():
